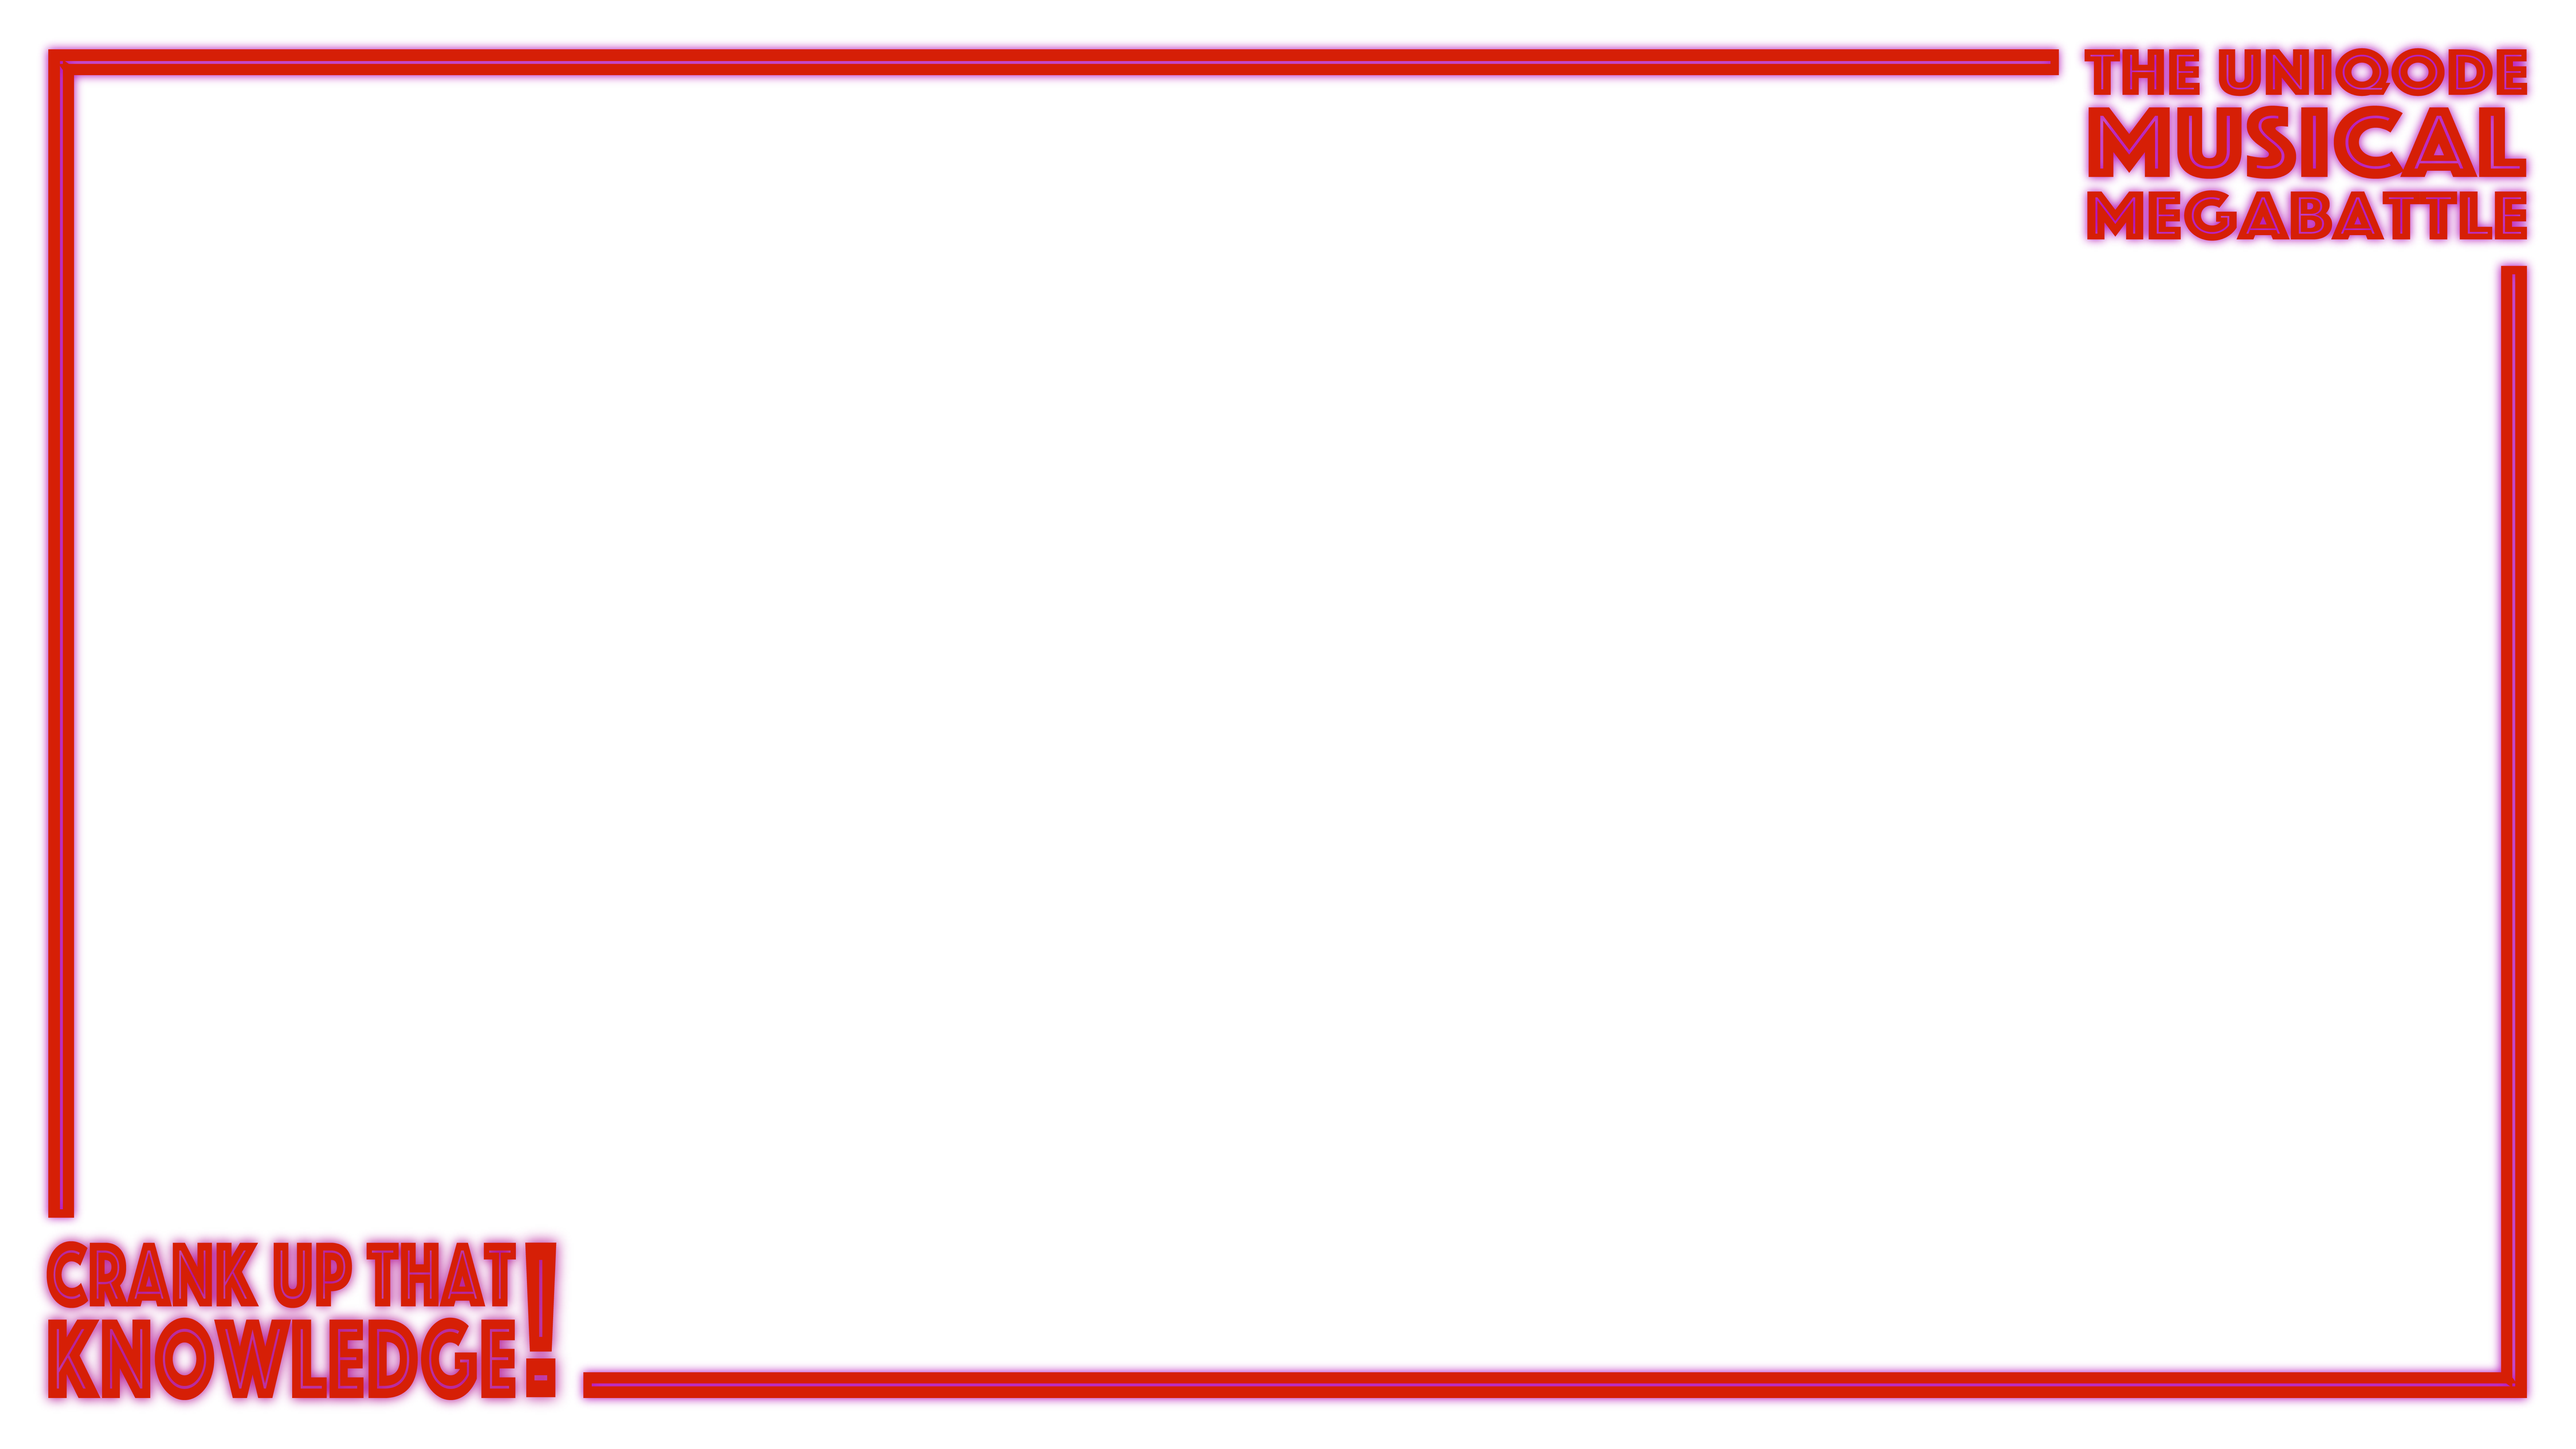
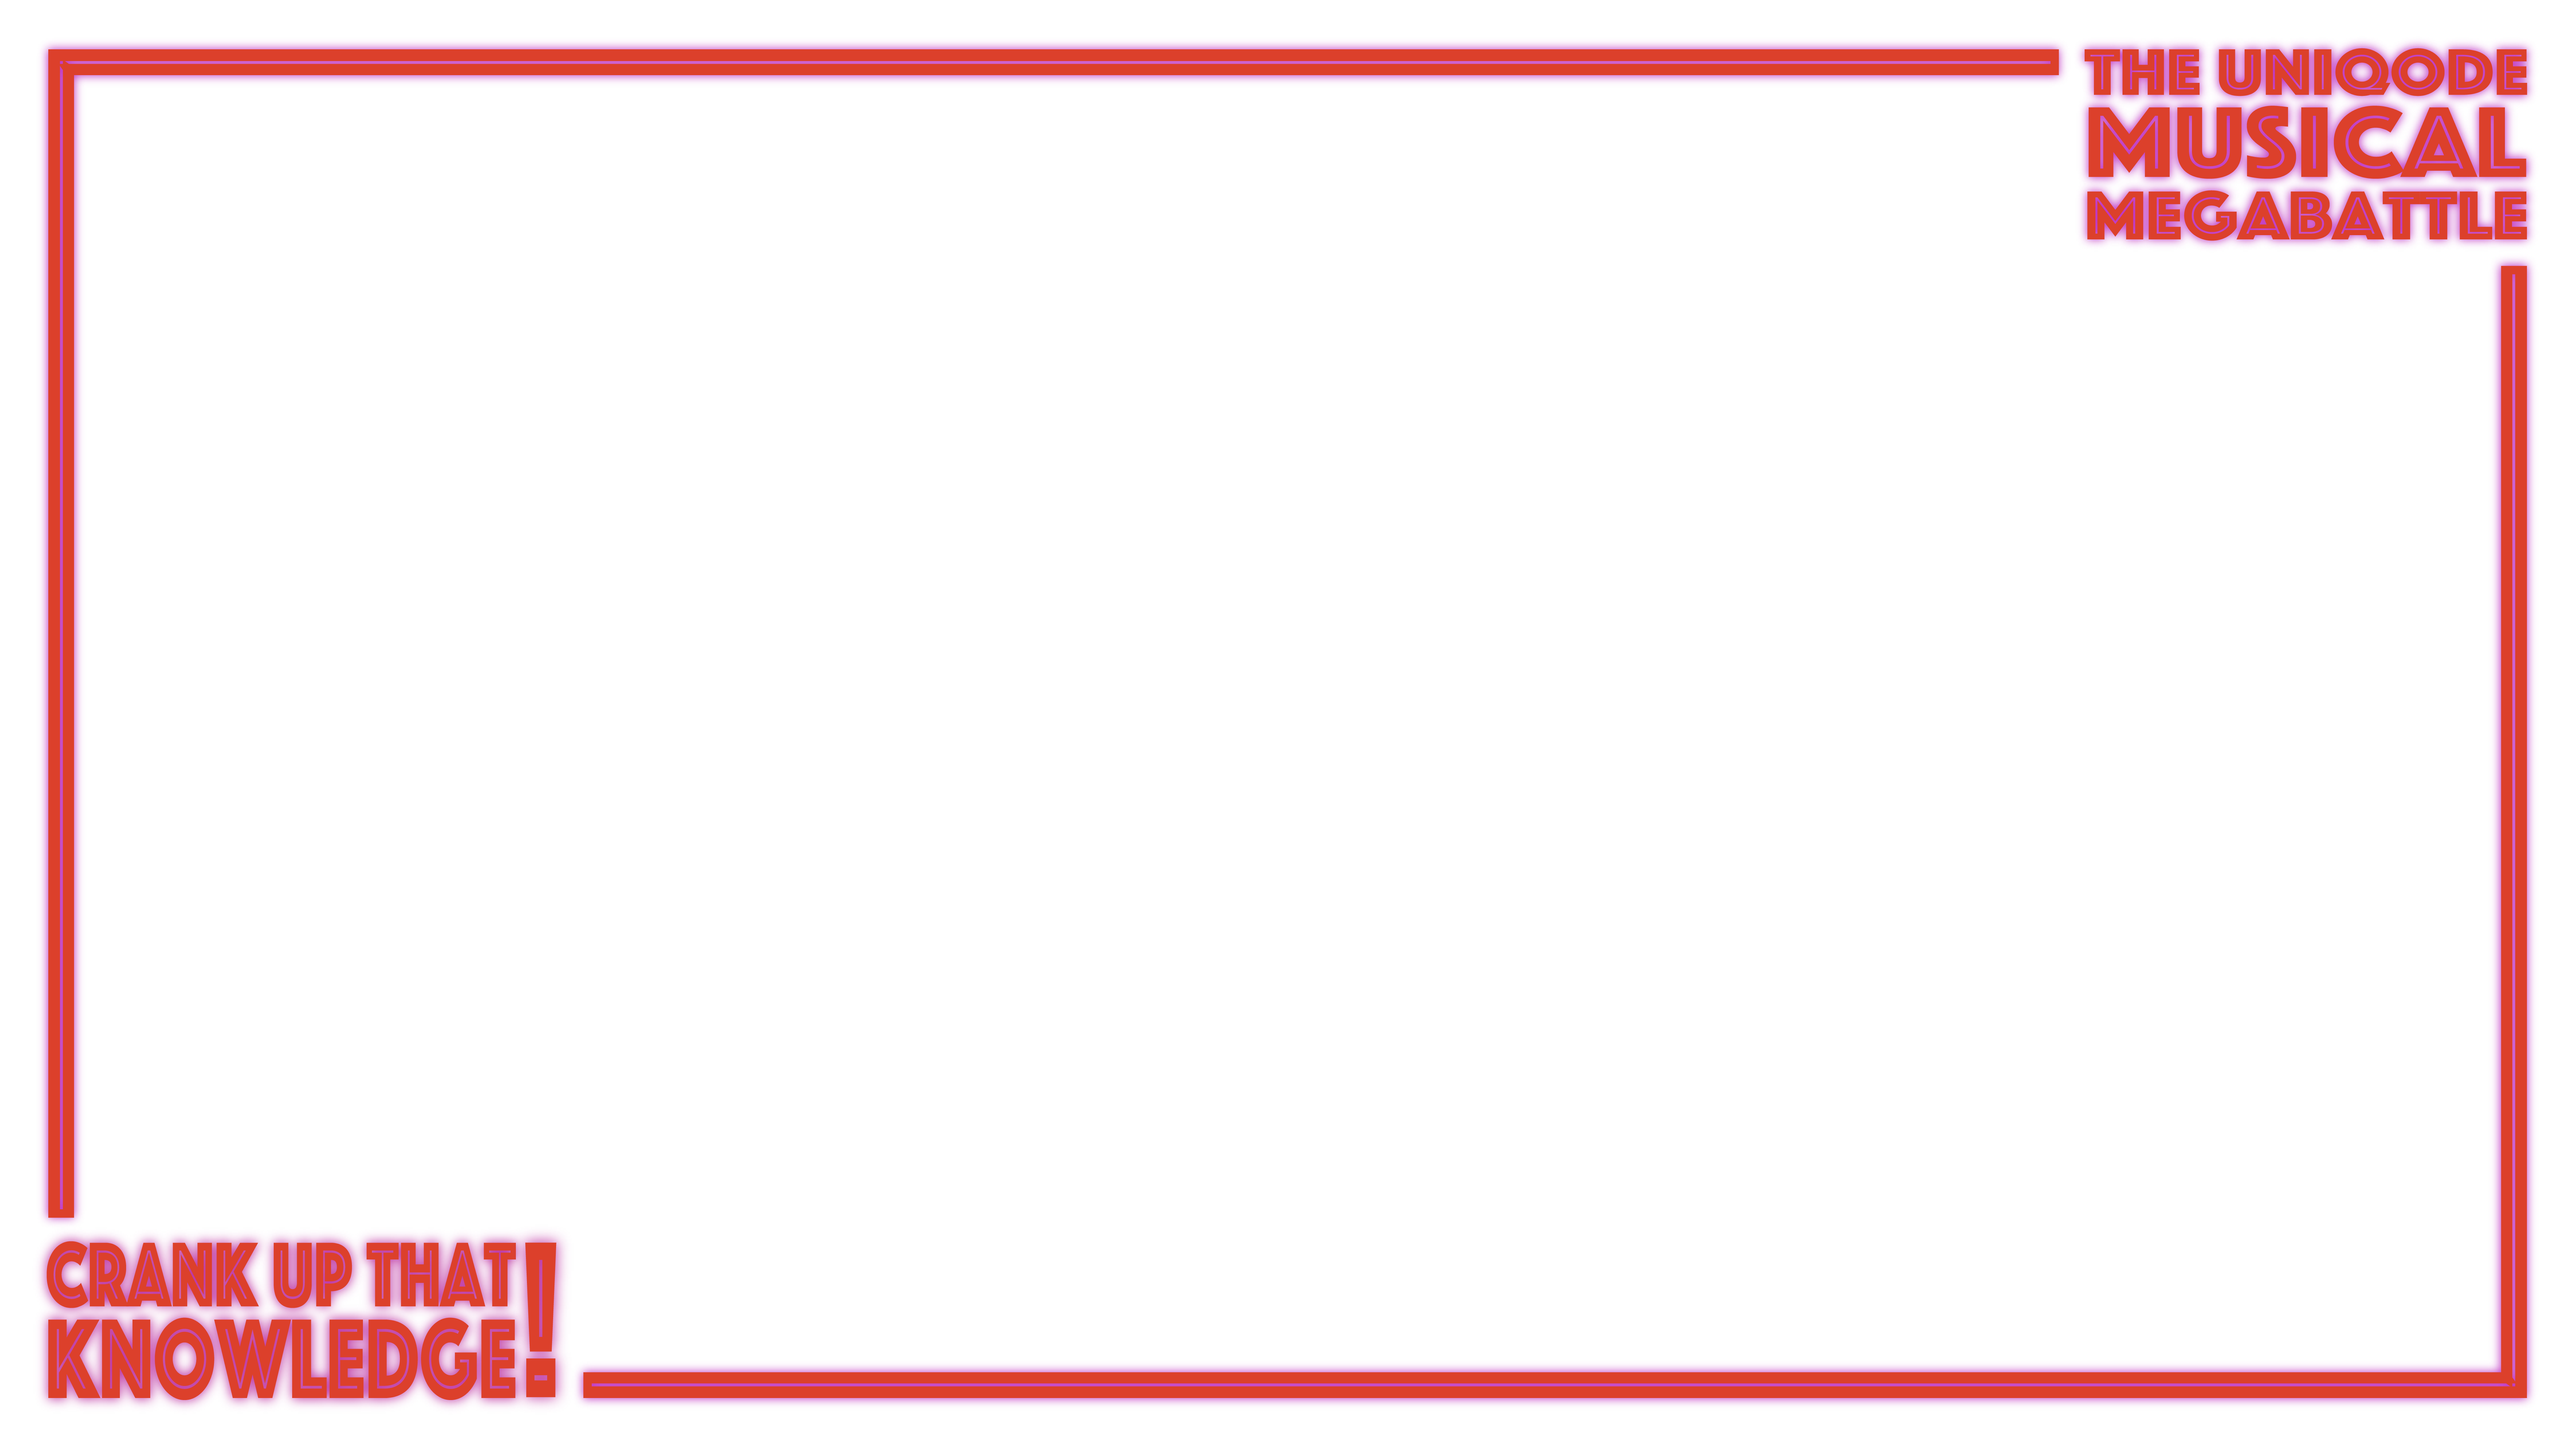
Style changes Added more dashboards

Changed region(s): [[0.0, 0.0312, 1.0, 0.9688]]

diff --git a/src/app/dashboard/dashboard.component.ts b/src/app/dashboard/dashboard.component.ts
@@ -1,21 +1,54 @@
 import {Component, OnInit} from '@angular/core';
 import {AngularFirestore} from '@angular/fire/firestore';
-import {HighScoreEntry, PlayerStats} from '../declarations';
+import {HighScoreEntry, PlayerStats, StatWinnerEntry} from '../declarations';
+import {animate, style, transition, trigger} from '@angular/animations';
 
 @Component({
   selector: 'app-dashboard',
   templateUrl: './dashboard.component.html',
-  styleUrls: ['./dashboard.component.css']
+  styleUrls: ['./dashboard.component.css'],
+  animations: [
+    trigger('fade', [
+      transition(':enter', [style({opacity: 0}),
+        animate('1s ease',
+          style({opacity: '*'}))]),
+      transition(':leave', [style({opacity: '*'}),
+        animate('1s ease',
+          style({opacity: 0}))])
+    ]),
+    trigger('fade-fast', [
+      transition(':enter', [style({opacity: 0}),
+        animate('.5s ease',
+          style({opacity: '*'}))]),
+      transition(':leave', [style({opacity: '*'}),
+        animate('.5s ease',
+          style({opacity: 0}))])
+    ])
+  ]
 })
 export class DashboardComponent implements OnInit {
 
+  MAX_PAGE_INDEX = 2;
+  MAX_SCORES = 5;
   highScoreEntries: HighScoreEntry[] = [];
+  mostInvoluntaryRocker: StatWinnerEntry;
+  popMaster: StatWinnerEntry;
+  currentPageIndex = 0;
 
   constructor(private db: AngularFirestore) {
   }
 
   ngOnInit() {
     this.fetchHighScores();
+  }
+
+  private startDashboardRotation() {
+    setInterval(() => {
+      this.currentPageIndex++;
+      if (this.currentPageIndex > this.MAX_PAGE_INDEX) {
+        this.currentPageIndex = 0;
+      }
+    }, 10000);
   }
 
   private fetchHighScores() {
@@ -29,12 +62,74 @@ export class DashboardComponent implements OnInit {
       for (const statsDocument of data) {
         const stats = statsDocument.payload.doc.data() as PlayerStats;
         this.highScoreEntries.push({points: stats.points, userId: statsDocument.payload.doc.id, position: pos});
-        if (pos++ === 6) {
+        if (pos++ === this.MAX_SCORES) {
           break;
         }
       }
+      if (this.highScoreEntries.length > 0) {
+        this.fetchMostInvoluntaryRocker();
+        this.fetchPopMaster();
+        this.startDashboardRotation();
+      }
     });
+  }
 
+  private fetchMostInvoluntaryRocker() {
+    this.db.collection('musicquiz')
+      .doc('scoreboard')
+      .collection<PlayerStats>('stats', ref =>
+        ref.orderBy('rock_points', 'desc'))
+      .snapshotChanges().forEach(data => {
+      let currentRocker = {
+        userId: data[0].payload.doc.id,
+        points: data[0].payload.doc.data().rock_points,
+        likes: data[0].payload.doc.data().rock_likes,
+        category: 'rock'
+      };
+      let furthestDistance = currentRocker.points - currentRocker.likes;
+      for (const statsDocument of data) {
+        const stats = statsDocument.payload.doc.data() as PlayerStats;
+        if ((stats.rock_points - stats.rock_likes) > furthestDistance) {
+          currentRocker = {
+            userId: statsDocument.payload.doc.id,
+            points: stats.rock_points,
+            likes: stats.rock_likes,
+            category: 'rock'
+          };
+          furthestDistance = currentRocker.points - currentRocker.likes;
+        }
+      }
+      this.mostInvoluntaryRocker = currentRocker;
+    });
+  }
+
+  private fetchPopMaster() {
+    this.db.collection('musicquiz')
+      .doc('scoreboard')
+      .collection<PlayerStats>('stats', ref =>
+        ref.orderBy('pop_points', 'desc'))
+      .snapshotChanges().forEach(data => {
+      let currentPopMaster = {
+        userId: data[0].payload.doc.id,
+        points: data[0].payload.doc.data().pop_points,
+        likes: data[0].payload.doc.data().pop_likes,
+        category: 'pop'
+      };
+      let factor = currentPopMaster.points + currentPopMaster.likes;
+      for (const statsDocument of data) {
+        const stats = statsDocument.payload.doc.data() as PlayerStats;
+        if ((stats.pop_points + stats.pop_likes) > factor) {
+          currentPopMaster = {
+            userId: statsDocument.payload.doc.id,
+            points: stats.pop_points,
+            likes: stats.pop_likes,
+            category: 'pop'
+          };
+          factor = currentPopMaster.points + currentPopMaster.likes;
+        }
+      }
+      this.popMaster = currentPopMaster;
+    });
   }
 
 }

diff --git a/src/app/dashboard/dashboard.component.html b/src/app/dashboard/dashboard.component.html
@@ -1,8 +1,23 @@
-<iframe id="canvas" width="1920" height="1080"  allow="microphone" frameborder="0" src="https://www.shadertoy.com/embed/MsyczG?gui=false&t=10&paused=false&muted=false" allowfullscreen></iframe>
+<iframe id="canvas" width="1920" height="1080" allow="microphone" frameborder="0"
+        src="https://www.shadertoy.com/embed/MsyczG?gui=false&t=10&paused=false&muted=false" allowfullscreen></iframe>
 <div class="highscore-page">
-  <div class="highscore-list-header">Hetast just nu</div>
-  <table class="highscore-list">
-    <app-highscore-entry *ngFor="let entry of highScoreEntries" [entryData]="entry"></app-highscore-entry>
-  </table>
+
+  <div class="highscore-content" *ngIf="currentPageIndex==0" @fade>
+    <div class="highscore-list-header">Hetast just nu</div>
+    <table class="highscore-list">
+      <app-highscore-entry *ngFor="let entry of highScoreEntries" [entryData]="entry" @fade-fast></app-highscore-entry>
+    </table>
+  </div>
+
+  <div class="highscore-content" *ngIf="currentPageIndex==1 && mostInvoluntaryRocker" @fade>
+    <div class="highscore-statwinner-header">UniQodes mest ofrivilliga rockare</div>
+    <app-stat-winner [entryData]="mostInvoluntaryRocker"></app-stat-winner>
+  </div>
+
+  <div class="highscore-content" *ngIf="currentPageIndex==2 && popMaster" @fade>
+    <div class="highscore-statwinner-header">UniQodes popsnöre</div>
+    <app-stat-winner [entryData]="popMaster"></app-stat-winner>
+  </div>
+
 </div>
 

diff --git a/src/app/stat-winner/stat-winner.component.ts b/src/app/stat-winner/stat-winner.component.ts
@@ -1,16 +1,16 @@
-import {AfterViewInit, Component, Input, OnInit} from '@angular/core';
-import {HighScoreEntry, User} from '../declarations';
+import {AfterViewInit, Component, Input} from '@angular/core';
+import {StatWinnerEntry, User} from '../declarations';
 import {AngularFirestore} from '@angular/fire/firestore';
 
 @Component({
-  selector: 'app-highscore-entry',
-  templateUrl: './highscore-entry.component.html',
-  styleUrls: ['./highscore-entry.component.css']
+  selector: 'app-stat-winner',
+  templateUrl: './stat-winner.component.html',
+  styleUrls: ['./stat-winner.component.css']
 })
-export class HighscoreEntryComponent implements AfterViewInit {
+export class StatWinnerComponent implements AfterViewInit {
 
   @Input()
-  entryData: HighScoreEntry;
+  entryData: StatWinnerEntry;
   user: User;
 
   constructor(private db: AngularFirestore) {

diff --git a/src/app/app.module.ts b/src/app/app.module.ts
@@ -7,15 +7,19 @@ import {environment} from '../environments/environment';
 import {AngularFireModule} from '@angular/fire';
 import {AngularFirestoreModule, FirestoreSettingsToken} from '@angular/fire/firestore';
 import { HighscoreEntryComponent } from './highscore-entry/highscore-entry.component';
+import {BrowserAnimationsModule} from '@angular/platform-browser/animations';
+import { StatWinnerComponent } from './stat-winner/stat-winner.component';
 
 @NgModule({
   declarations: [
     AppComponent,
     DashboardComponent,
-    HighscoreEntryComponent
+    HighscoreEntryComponent,
+    StatWinnerComponent
   ],
   imports: [
     BrowserModule,
+    BrowserAnimationsModule,
     AngularFirestoreModule,
     AngularFireModule.initializeApp(environment.firebase)
   ],

diff --git a/src/app/stat-winner/stat-winner.component.spec.ts b/src/app/stat-winner/stat-winner.component.spec.ts
@@ -1,0 +1,25 @@
+import { async, ComponentFixture, TestBed } from '@angular/core/testing';
+
+import { StatWinnerComponent } from './stat-winner.component';
+
+describe('StatWinnerComponent', () => {
+  let component: StatWinnerComponent;
+  let fixture: ComponentFixture<StatWinnerComponent>;
+
+  beforeEach(async(() => {
+    TestBed.configureTestingModule({
+      declarations: [ StatWinnerComponent ]
+    })
+    .compileComponents();
+  }));
+
+  beforeEach(() => {
+    fixture = TestBed.createComponent(StatWinnerComponent);
+    component = fixture.componentInstance;
+    fixture.detectChanges();
+  });
+
+  it('should create', () => {
+    expect(component).toBeTruthy();
+  });
+});

diff --git a/src/app/dashboard/dashboard.component.css b/src/app/dashboard/dashboard.component.css
@@ -8,18 +8,28 @@
   text-align: center;
 }
 
+.highscore-list-header, .highscore-statwinner-header {
+  margin: 6% auto 0.5em;
+}
+
 .highscore-list-header {
-  margin-top: 6%;
-  margin-left: auto;
-  margin-right: auto;
-  margin-bottom: 0.5em;
-  font-size: 1.8em;
+  font-size: 1.2em;
+}
+
+.highscore-statwinner-header {
+  margin-top: 4em;
+  font-size: 1.2em;
 }
 
 .highscore-list {
   width: 80%;
   margin-left: auto;
   margin-right: auto;
+}
+
+.highscore-content {
+  position: absolute;
+  width: 100%;
 }
 
 #canvas {

diff --git a/src/app/stat-winner/stat-winner.component.html b/src/app/stat-winner/stat-winner.component.html
@@ -1,0 +1,8 @@
+<tr *ngIf="user" class="entry">
+  <td class="cell photo">
+    <img *ngIf="user.photoURL" class="avatar"
+         [src]="user.photoURL">
+  </td>
+  <td class="cell name">{{user.displayName}}</td>
+  <td class="cell points">{{entryData.category}}-poäng: {{entryData.points}} {{entryData.category}}-likes: {{entryData.likes}}</td>
+</tr>

diff --git a/src/app/declarations.ts b/src/app/declarations.ts
@@ -30,6 +30,13 @@ export interface HighScoreEntry {
   position: number;
 }
 
+export interface StatWinnerEntry {
+  userId: string;
+  points: number;
+  likes: number;
+  category: string;
+}
+
 export interface User {
   displayName: string;
   email: string;

diff --git a/src/app/stat-winner/stat-winner.component.css b/src/app/stat-winner/stat-winner.component.css
@@ -1,0 +1,19 @@
+.cell {
+  display: block;
+}
+
+.cell img {
+  height: 6em;
+  width: 6em;
+  border-radius: 50%;
+  margin-top: 0.25em;
+  box-shadow: 0 0 4em #b311b7;
+}
+
+.name {
+  font-size: 1.2em;
+}
+
+.points {
+  font-size: 0.8em;
+}

diff --git a/src/styles.css b/src/styles.css
@@ -7,6 +7,6 @@ html, body {
   font-family: 'Acme';
   font-size: 1.8em;
   text-transform: uppercase;
-  color: #d61f06;
+  color: #ff0000;
   text-shadow: 0 0 0.5em #b311b7;
 }

diff --git a/src/app/highscore-entry/highscore-entry.component.css b/src/app/highscore-entry/highscore-entry.component.css
@@ -8,6 +8,7 @@
   width: 1.5em;
   border-radius: 50%;
   margin-right: 0.5em;
+  margin-top: 0.25em;
 }
 
 .cell {
